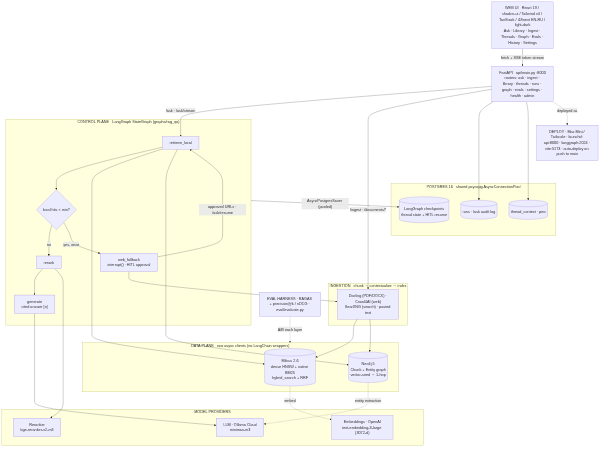
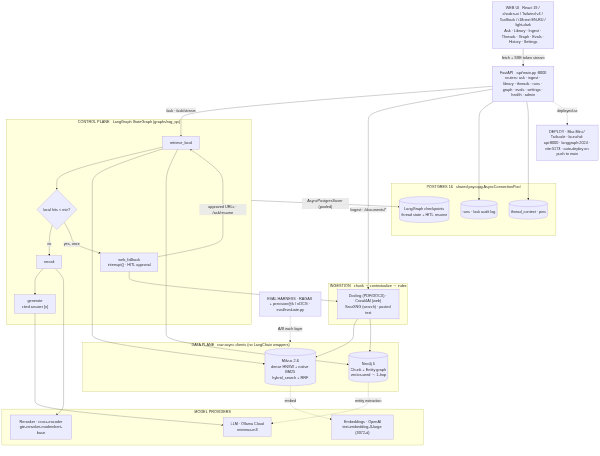
docs: fix stale reranker references (gte-reranker-modernbert-base)
The active reranker is `Alibaba-NLP/gte-reranker-modernbert-base` (the
config.py default — 149M params, multilingual via ModernBERT, Apache 2.0),
but the README (6 spots), the providers/reranker.py docstring, and the new
architecture diagram still named the old `BAAI/bge-reranker-v2-m3` baseline.
Correct all of them to match the code.

diff --git a/src/sovereign_rag/providers/reranker.py b/src/sovereign_rag/providers/reranker.py
@@ -6,9 +6,10 @@ Milvus (and the graph), then rerank with a cross-encoder that scores each
 similarity used for first-stage retrieval — and keep the top
 `rerank_top_k`.
 
-The default model is **BAAI/bge-reranker-v2-m3**: ~568M parameters,
-multilingual (RU/UZ/EN/CN/…), one of the strongest open-source
-cross-encoders on BEIR. It runs on Apple Silicon (MPS), CUDA, or CPU —
+The default model is **Alibaba-NLP/gte-reranker-modernbert-base**: ~149M
+parameters (~3.8x smaller than bge-reranker-v2-m3), Apache 2.0, multilingual
+via ModernBERT — override to ``BAAI/bge-reranker-v2-m3`` for the older
+battle-tested baseline. It runs on Apple Silicon (MPS), CUDA, or CPU —
 device is auto-selected unless `RERANKER_DEVICE` is set explicitly. No
 network calls at inference time; the weights are downloaded once from
 HuggingFace and cached locally.

diff --git a/README.md b/README.md
@@ -10,7 +10,7 @@
 [![Ollama](https://img.shields.io/badge/LLM-Ollama-black.svg)](https://ollama.com/)
 [![License: MIT](https://img.shields.io/badge/license-MIT-green.svg)](LICENSE)
 
-**Local-dev (default).** Everything runs on your own machine — the LLM (Ollama), the embeddings (Ollama `bge-m3`), the reranker (`BAAI/bge-reranker-v2-m3` cross-encoder, runs on MPS / CUDA / CPU), the vector DB (Milvus), the graph DB (Neo4j), and web search (SearXNG) are all local or self-hosted. No paid keys required. The defaults in `config.py` reflect this.
+**Local-dev (default).** Everything runs on your own machine — the LLM (Ollama), the embeddings (Ollama `bge-m3`), the reranker (`Alibaba-NLP/gte-reranker-modernbert-base` cross-encoder, runs on MPS / CUDA / CPU), the vector DB (Milvus), the graph DB (Neo4j), and web search (SearXNG) are all local or self-hosted. No paid keys required. The defaults in `config.py` reflect this.
 
 **Honest caveat.** The CI integration tier on a self-hosted Mac Mini runner swaps the LLM to **Ollama Cloud** and embeddings to **OpenAI** — the Mac Mini can't reasonably host a local Ollama daemon, and Ollama Cloud doesn't expose an embeddings endpoint. So "sovereign-rag" is the *architecture* and the *local-dev path*; the CI integration job is not. Details in [Two-tier CI](#two-tier-ci).
 
@@ -34,7 +34,7 @@ The interface is a from-scratch design system in the register of **Linear · Ver
 | Technique | What it buys | Here |
 |---|---|---|
 | **Hybrid search** (dense + BM25, RRF) | BM25 catches exact tokens (codes, names, IDs) dense embeddings miss | Native in Milvus 2.6 — one `hybrid_search` call, server-side BM25 |
-| **Cross-encoder reranking** | Biggest quality-per-line jump; re-scores top-50 -> top-5 | `BAAI/bge-reranker-v2-m3` via sentence-transformers — multilingual, ~568M params, MPS/CUDA/CPU, no API |
+| **Cross-encoder reranking** | Biggest quality-per-line jump; re-scores top-50 -> top-5 | `Alibaba-NLP/gte-reranker-modernbert-base` via sentence-transformers — multilingual (ModernBERT), ~149M params, Apache 2.0, MPS/CUDA/CPU, no API |
 | **Contextual Retrieval** (Anthropic, 2024) | Prepends chunk-situating context before indexing; ~-35% retrieval failures | Local LLM generates the prefix |
 | **GraphRAG local-search** | Multi-hop questions vector search can't answer | Neo4j entity graph: vector-seed -> 1-hop traverse |
 | **Evaluation harness** | Proves the above instead of cargo-culting it | RAGAS (Ollama judge) + retrieval precision@k |
@@ -65,7 +65,7 @@ The interface is a from-scratch design system in the register of **Linear · Ver
                                 |                         |
                                 v                         |
                           +-----------+                   |
-                          |  rerank   |<------------------+   bge-reranker-v2-m3 (MPS/CUDA/CPU)
+                          |  rerank   |<------------------+   gte-reranker-modernbert-base (MPS/CUDA/CPU)
                           +-----+-----+
                                 |
                                 v
@@ -100,7 +100,7 @@ The interface is a from-scratch design system in the register of **Linear · Ver
   State: Postgres (LangGraph checkpoints, threads, interrupt resumes)         |
 ```
 
-**Stack.** Python 3.12 · **LangGraph 1.x** (StateGraph, conditional edges, HITL, AsyncPostgresSaver) · LangChain 1.x (splitters/contracts) · **Milvus 2.6** (`pymilvus`, AsyncMilvusClient) · **Neo4j 5 Community** (`neo4j-graphrag`) · **Postgres 16** (LangGraph checkpoints) · **Ollama** (`langchain-ollama`; qwen2.5:7b + bge-m3) · **`BAAI/bge-reranker-v2-m3`** cross-encoder via sentence-transformers · **Docling** (IBM, layout-aware parsing) · **Crawl4AI** + **SearXNG** ingestion · **RAGAS** eval · FastAPI · uv · ruff/mypy/pytest.
+**Stack.** Python 3.12 · **LangGraph 1.x** (StateGraph, conditional edges, HITL, AsyncPostgresSaver) · LangChain 1.x (splitters/contracts) · **Milvus 2.6** (`pymilvus`, AsyncMilvusClient) · **Neo4j 5 Community** (`neo4j-graphrag`) · **Postgres 16** (LangGraph checkpoints) · **Ollama** (`langchain-ollama`; qwen2.5:7b + bge-m3) · **`Alibaba-NLP/gte-reranker-modernbert-base`** cross-encoder via sentence-transformers · **Docling** (IBM, layout-aware parsing) · **Crawl4AI** + **SearXNG** ingestion · **RAGAS** eval · FastAPI · uv · ruff/mypy/pytest.
 
 ## Quick start
 
@@ -162,7 +162,7 @@ The QA path is a LangGraph `StateGraph` (see `src/sovereign_rag/agent/`):
 1. **`retrieve_local`** — Milvus `hybrid_search` (dense ANN + native BM25, fused with `RRFRanker`) and Neo4j `local_search` (vector-seed chunks → traverse `MENTIONS` edges 1 hop → append relation facts) run concurrently and get deduped by `chunk_id`.
 2. **Conditional edge** — if the deduped candidate count is below `WEB_FALLBACK_MIN_CHUNKS` and we haven't already tried, the graph routes through `web_fallback`; otherwise straight to `rerank`.
 3. **`web_fallback` (HITL)** — searches SearXNG, then `interrupt()`s with the candidate URLs. The client resumes with `approved_urls` via `/ask/resume`; the node crawls those, indexes them via `RAGPipeline.index_document`, re-runs local retrieval, and continues.
-4. **`rerank`** — `BAAI/bge-reranker-v2-m3` cross-encoder (sentence-transformers) re-scores the union and keeps top-`RERANK_TOP_K` on MPS / CUDA / CPU.
+4. **`rerank`** — `Alibaba-NLP/gte-reranker-modernbert-base` cross-encoder (sentence-transformers) re-scores the union and keeps top-`RERANK_TOP_K` on MPS / CUDA / CPU.
 5. **`generate`** — the LLM answers using only the numbered passages, citing `[n]` inline; the API returns structured citations.
 
 Each thread is checkpointed in Postgres (`AsyncPostgresSaver`), so interrupted runs survive restarts and can be resumed from a different request. Every layer is toggle-able via env (`ENABLE_GRAPH_RETRIEVAL`, `ENABLE_CONTEXTUAL_RETRIEVAL`, `WEB_FALLBACK_MIN_CHUNKS=0` to disable fallback) so the eval harness can A/B their contribution.
@@ -193,7 +193,7 @@ src/sovereign_rag/
   config.py           # pydantic-settings, local-by-default
   providers/
     ollama.py         # ChatOllama + OllamaEmbeddings
-    reranker.py       # bge-reranker-v2-m3 via sentence-transformers (MPS/CUDA/CPU)
+    reranker.py       # gte-reranker-modernbert-base via sentence-transformers (MPS/CUDA/CPU)
   chunking.py         # recursive split + contextual-retrieval prefixing
   ingestion/          # docling (pdf) . crawl4ai (web) . searxng (search)
   vectorstore/

diff --git a/docs/architecture.md b/docs/architecture.md
@@ -41,7 +41,7 @@ flowchart TB
 
   subgraph PROV["MODEL PROVIDERS"]
     LLM["LLM · Ollama Cloud<br/>minimax-m3"]
-    RER["Reranker<br/>bge-reranker-v2-m3"]
+    RER["Reranker<br/>gte-reranker-modernbert-base"]
     EMB["Embeddings · OpenAI<br/>text-embedding-3-large (3072-d)"]
   end
 
@@ -73,6 +73,6 @@ flowchart TB
 | **Control plane** | LangGraph `StateGraph` (`graphs/rag_qa`): `retrieve_local` → conditional `web_fallback` (HITL `interrupt()`) → `rerank` → `generate`. Checkpointed in Postgres via a **pooled** `AsyncPostgresSaver`, so threads + interrupts survive restarts. |
 | **Data plane** | Raw async clients (not LangChain wrappers): **Milvus 2.6** dense HNSW + native BM25, fused with RRF; **Neo4j 5** chunk+entity graph, vector-seed then 1-hop traverse. |
 | **Ingestion** | Docling (PDF/DOCX) · Crawl4AI (web) · SearXNG (search) · text → recursive chunk → contextual prefix → index into both stores. |
-| **Providers** | LLM: Ollama Cloud `minimax-m3`. Embeddings: OpenAI `text-embedding-3-large` (3072-d). Reranker: `BAAI/bge-reranker-v2-m3` cross-encoder (MPS/CUDA/CPU). |
+| **Providers** | LLM: Ollama Cloud `minimax-m3`. Embeddings: OpenAI `text-embedding-3-large` (3072-d). Reranker: `Alibaba-NLP/gte-reranker-modernbert-base` cross-encoder (~149M, multilingual, MPS/CUDA/CPU). |
 | **Persistence** | Postgres 16 (one shared psycopg pool): LangGraph checkpoints, the `runs` audit log, and `thread_context` pins/exclusions. |
 | **Eval & deploy** | RAGAS + precision@k/nDCG harness (`eval/`); deployed on a Mac Mini (Tailscale) as launchd services, auto-deployed on push to `main`. |